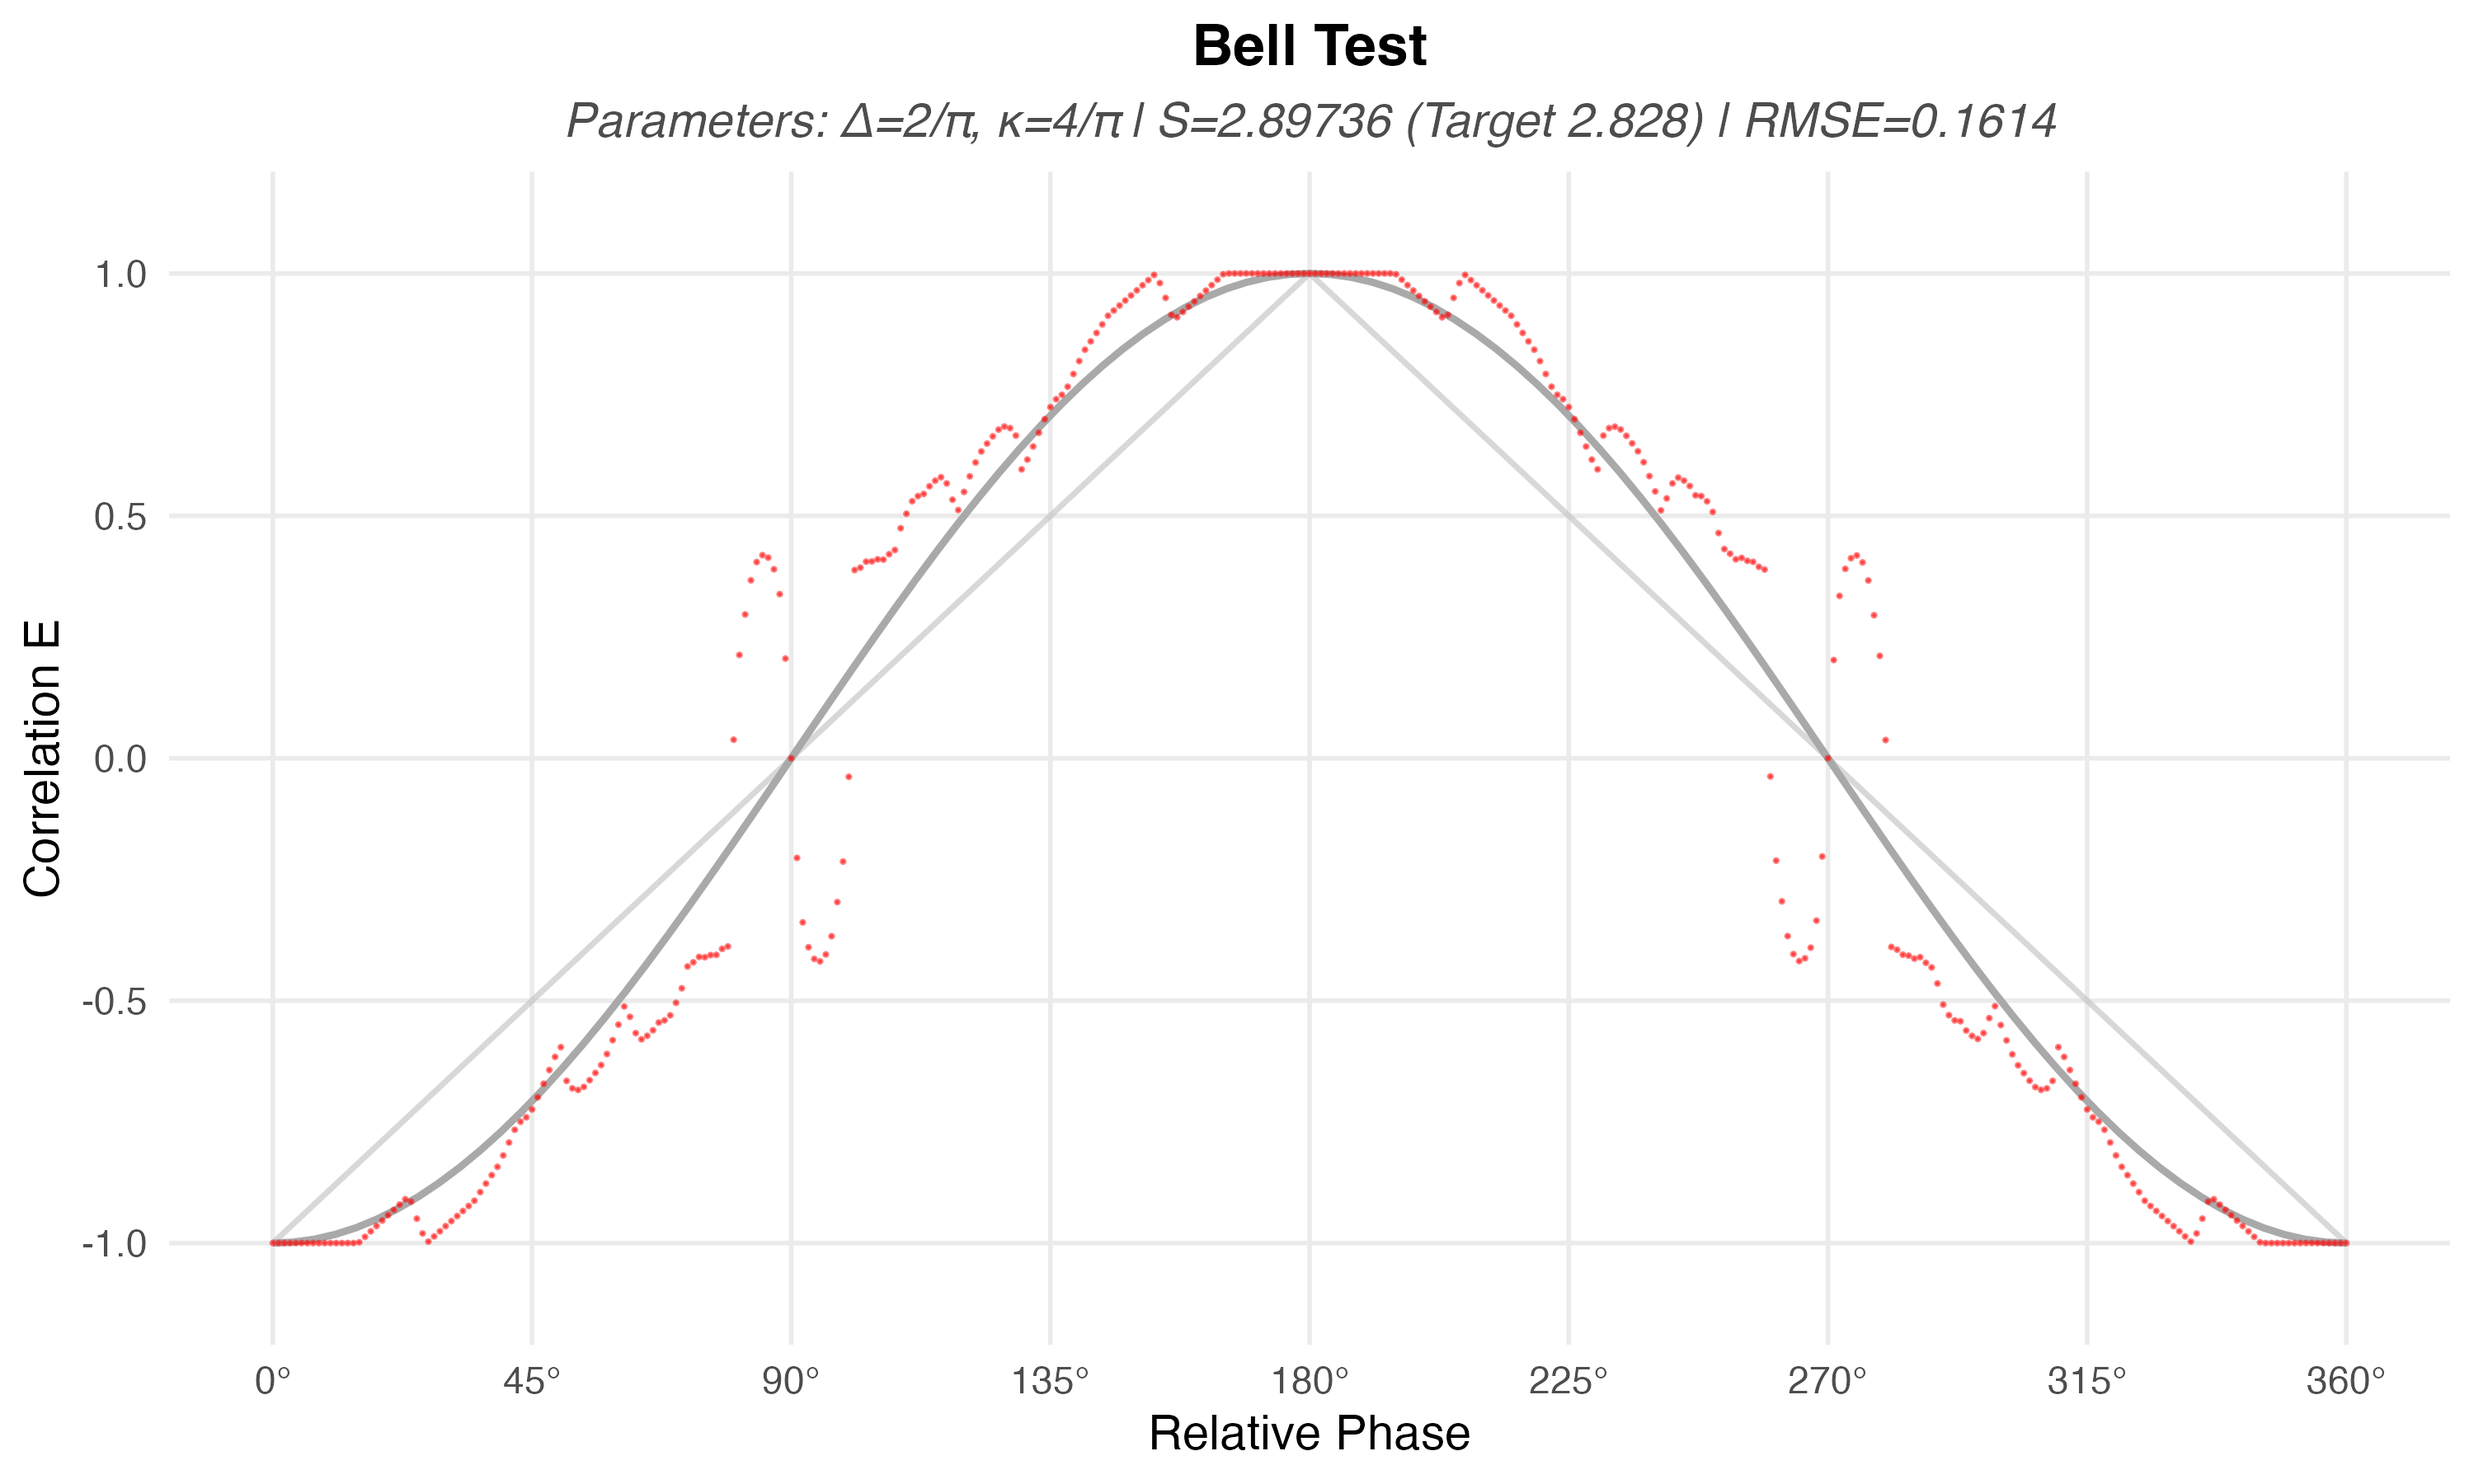
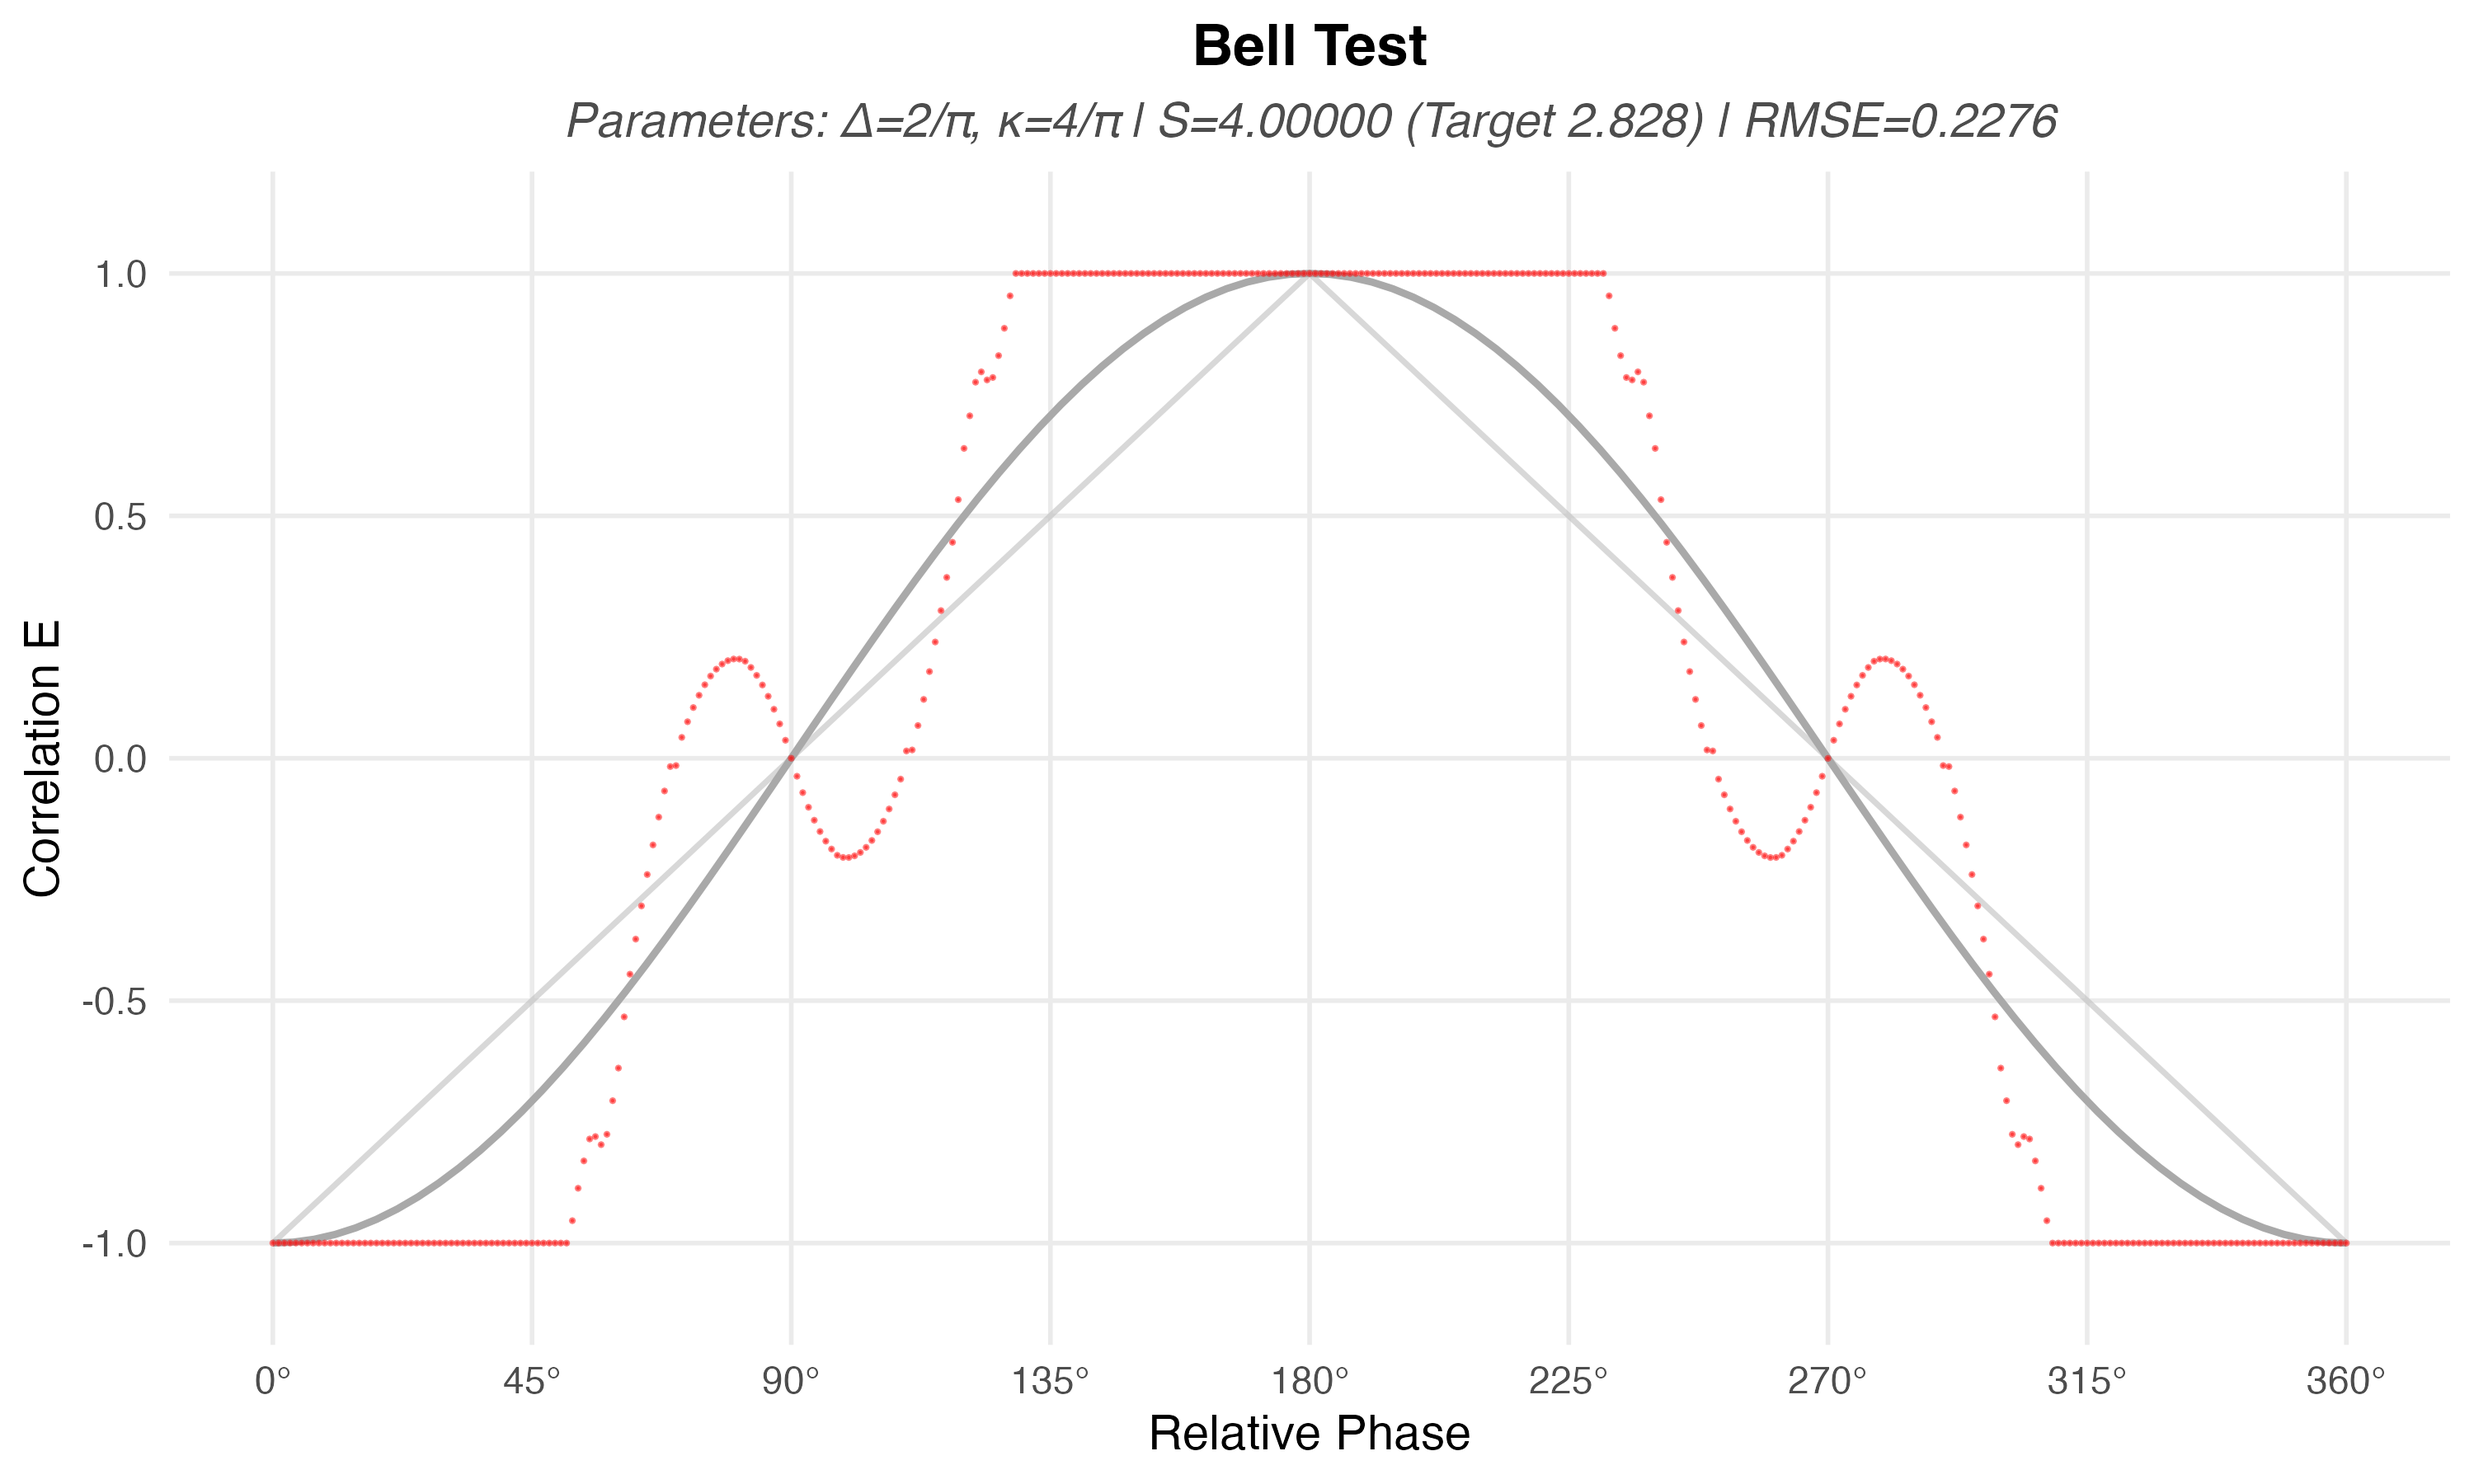
this version is not good. rotationl unvariance is important.

diff --git a/src/bell_test_simulator.cpp b/src/bell_test_simulator.cpp
@@ -8,45 +8,27 @@
 
 using namespace Rcpp;
 
+// --- PHYSICS HELPER FUNCTIONS: PLANCK GEOMETRY ---
+// Hard clamping to theta_0 (The "Mesa" profile)
+
 inline double planck_sin(double angle, double theta_0) {
-  // If the magnitude is less than the planck floor, clamp it to the floor.
-  // We preserve the sign of the original angle.
   if (std::abs(angle) < theta_0) {
     return std::sin((angle < 0) ? -theta_0 : theta_0);
   }
   return std::sin(angle);
 }
 
-// Returns cos(angle), respecting the same planck limit relative to 90 degrees.
-// Physics: Prevents Singularity at 90 degrees (Infinite Information).
 inline double planck_cos(double angle, double theta_0) {
-  // 1. Check proximity to +/- 90 degrees (The Orthogonal Singularity)
-  // Distance from PI/2 (90 deg) or -PI/2 (-90 deg)
-  double abs_angle = std::abs(angle);
-  double dist_from_90 = std::abs(M_PI_2 - abs_angle);
-
+  // Check proximity to 90 degrees (Orthogonal singularity)
+  double dist_from_90 = std::abs(M_PI_2 - std::abs(angle));
   if (dist_from_90 < theta_0) {
-    // We are within the vacuum wedge of 90 degrees.
-    // Clamp the angle to (90 - theta_0) so cosine doesn't vanish.
-    // Preserve the sign of the cosine (which flips at 90).
-    // Actually, at exactly 90, cos is 0.
-    // We want the minimum non-zero value: cos(90 - theta_0).
-
-    // Determine sign of the result based on quadrant
-    // Cosine is positive in Q1/Q4, negative in Q2/Q3.
-    // Simple trick: use the sign of cos(angle) unless it's exactly 0.
-    double native_cos = std::cos(angle);
-    double sign = (native_cos >= 0) ? 1.0 : -1.0;
-
-    // Return the minimum vacuum cosine
+    double sign = (std::cos(angle) >= 0) ? 1.0 : -1.0;
     return sign * std::cos(M_PI_2 - theta_0);
   }
-
-  // 2. Check near 0 (Consistency, though less critical for cos)
-  if (abs_angle < theta_0) {
+  // Check proximity to 0 degrees
+  if (std::abs(angle) < theta_0) {
     return std::cos((angle < 0) ? -theta_0 : theta_0);
   }
-
   return std::cos(angle);
 }
 
@@ -54,11 +36,11 @@ inline double planck_cos(double angle, double theta_0) {
 // [[Rcpp::export]]
 void micro_macro_bell_erasure_sweep(
     NumericVector angles,
-    double detector_aperture,  // PHYSICS: The Characteristic Angle (theta_0)
+    double detector_aperture,
     std::string dir,
-    int count,                 // Number of particles to simulate (Loop limit)
-    double kappa,              // Detector Geometry Parameter
-    double delta_particle,     // Source Physics Parameter
+    int count,
+    double kappa,
+    double delta_particle,
     double mu_start,
     double mu_end,
     int n_threads = 0
@@ -67,12 +49,7 @@ void micro_macro_bell_erasure_sweep(
   std::vector<double> angles_cpp = Rcpp::as<std::vector<double>>(angles);
   size_t n = angles_cpp.size();
 
-  // --- PHYSICS: CHARACTERISTIC ANGLE (THETA_0) ---
-  // The detector aperture defines the fundamental quantum of angle for this apparatus.
-  // It represents the ground state width of the phase space wedge.
   double theta_0 = detector_aperture * (M_PI / 180.0);
-
-  // Safety: Ensure we don't divide by zero if user passes 0.0
   if (theta_0 < 1e-15) theta_0 = 1e-15;
 
   int threads = (n_threads <= 0) ? (int)std::thread::hardware_concurrency() - 2 : n_threads;
@@ -80,7 +57,6 @@ void micro_macro_bell_erasure_sweep(
 
   RcppThread::ThreadPool pool(threads);
 
-  // Outer loop: Angles (Phase Sweep)
   pool.parallelFor(0, n, [&](int i) {
     double angle_deg = angles_cpp[i];
     double angle_rad = angle_deg * (M_PI / 180.0);
@@ -92,52 +68,43 @@ void micro_macro_bell_erasure_sweep(
     gzFile file_a = gzopen((dir + "/" + f_a).c_str(), "wb1");
     gzFile file_b = gzopen((dir + "/" + f_b).c_str(), "wb1");
 
-    // Header
     const char* header = "angle,spin,erasure_distance,microstate,macrostate,uncertainty,numerator,denominator,stern_brocot_path,minimal_program,program_length,shannon_entropy,left_count,right_count,max_search_depth,found\n";
 
     gzprintf(file_a, header);
     gzprintf(file_b, header);
 
-    // Inner loop: Particle Count (Simulation Iterations)
     for (int j = 0; j < count; j++) {
-
-      // --- STEP 1: DETERMINISTIC SOURCE GENERATION ---
       double mu_particle = mu_start + (mu_end - mu_start) * ((double)j / (double)(count - 1));
 
-      // Apply Source Constraint
       EraseResult erasure = erase_single_native(mu_particle, delta_particle, max_depth);
-
-      // Define Particle
       double particle = erasure.found ? erasure.erasure_distance : mu_particle;
       double particle_a = particle;
       double particle_b = -particle;
 
-      // --- STEP 2: MEASUREMENT (Detector Interaction) ---
+      // --- LAB FRAME UNCERTAINTY ---
+      // We calculate delta based ONLY on the detector's angle in the lab.
+      // This breaks rotational invariance but creates a fixed uncertainty per setting.
+
+      // ALICE
+      double proj_a = std::abs(planck_sin(angle_rad, theta_0));
+      double cost_a = std::pow(planck_cos(angle_rad, theta_0), 2);
+      double delta_a = kappa * cost_a / proj_a;
+
+      // BOB
+      double proj_b = std::abs(planck_sin(angle_rad, theta_0));
+      double cost_b = std::pow(planck_cos(angle_rad, theta_0), 2);
+      double delta_b = kappa * cost_b / proj_b;
+
+      // --- RELATIVE SPIN ---
+      // The spin measurement still relies on the interaction angle
       double phase_a = angle_rad - particle_a;
       double phase_b = angle_rad - particle_b;
 
-      // --- ALICE ---
-      // We use planck_sin/cos to enforce the Planck-scale geometry.
-      // This automatically handles the P >= 1 constraint (Projection >= planck Mode).
-      double proj_a = std::abs(planck_sin(phase_a, theta_0));
-      double cost_a = std::pow(planck_cos(phase_a, theta_0), 2);
-
-      double delta_a = kappa * cost_a / proj_a;
-
-      // --- BOB ---
-      double proj_b = std::abs(planck_sin(phase_b, theta_0));
-      double cost_b = std::pow(planck_cos(phase_b, theta_0), 2);
-
-      double delta_b = kappa * cost_b / proj_b;
-
-      // Erase
       EraseResult res_a = erase_single_native(particle_a, delta_a, max_depth);
       EraseResult res_b = erase_single_native(particle_b, delta_b, max_depth);
 
-      // --- STEP 3: OBSERVE SPIN ---
-      // Determine spin direction using planck geometry for consistency
-      int spin_a = ((res_a.erasure_distance >= 0) ? 1 : -1) * ((planck_cos(phase_a, theta_0) >= 0) ? 1 : -1);
-      int spin_b = ((res_b.erasure_distance >= 0) ? 1 : -1) * ((planck_cos(phase_b, theta_0) >= 0) ? 1 : -1);
+      int spin_a = ((res_a.erasure_distance >= 0) ? 1 : -1) * ((std::cos(phase_a) >= 0) ? 1 : -1);
+      int spin_b = ((res_b.erasure_distance >= 0) ? 1 : -1) * ((std::cos(phase_b) >= 0) ? 1 : -1);
 
       // ROW A
       gzprintf(file_a, "%.6f,%d,%.6f,%.6f,%.6f,%.6f,%.0f,%.0f,%s,%s,%d,%.6f,%d,%d,%d,%d\n",
